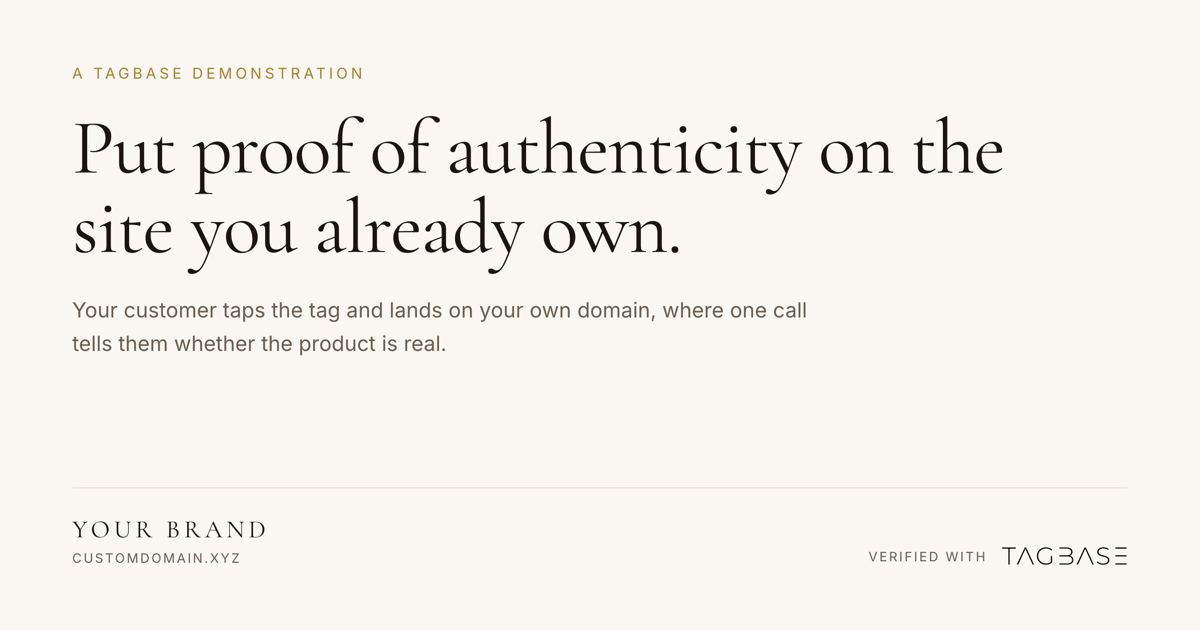
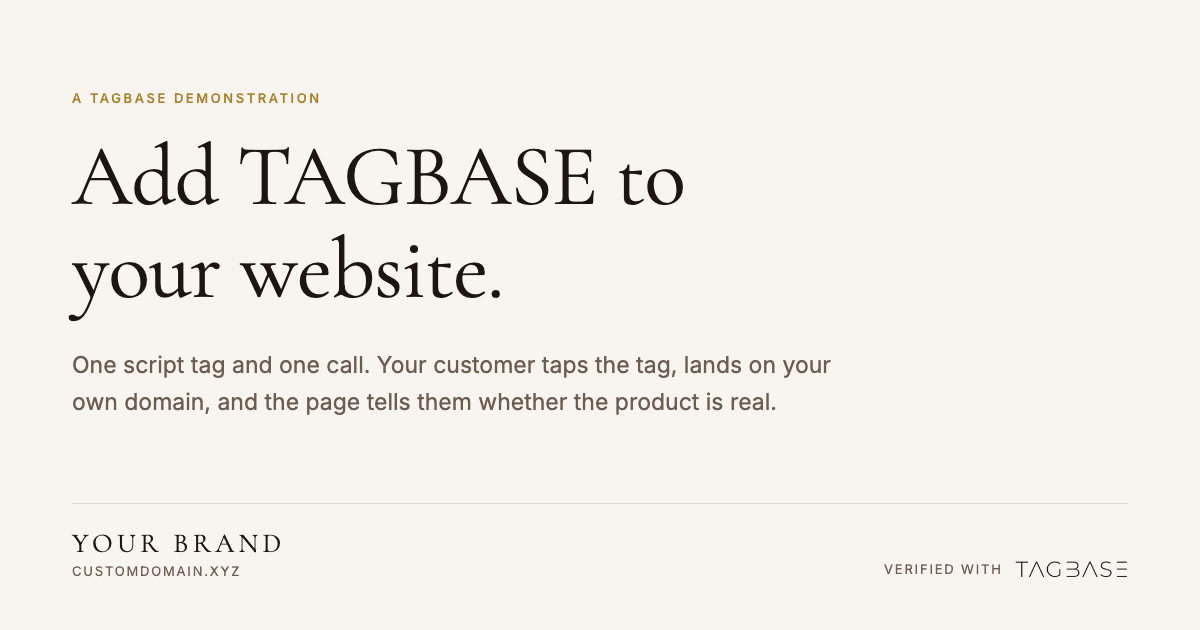
Update the link preview image
Claude-Session: https://claude.ai/code/session_011dzoKvKxMPzgK163jDQhCY

Changed region(s): [[0.0617, 0.0905, 0.8325, 0.6635], [0.0617, 0.8143, 0.2467, 0.9349], [0.7092, 0.8746, 0.9558, 0.9048]]

diff --git a/index.html b/index.html
@@ -18,17 +18,20 @@
     />
     <meta name="author" content="TAGBASE" />
 
-    <meta property="og:title" content="Product verification on your own domain" />
+    <meta property="og:title" content="Add TAGBASE to your website" />
     <meta
       property="og:description"
       content="A demo of TAGBASE verification running on a brand's own domain. Tap a tag and this page tells you what the product is and whether it is real."
     />
     <meta property="og:type" content="website" />
-    <meta property="og:image" content="/og-image.png" />
+    <meta property="og:url" content="https://customdomain.xyz/" />
+    <meta property="og:image" content="https://customdomain.xyz/og-image.png" />
+    <meta property="og:image:width" content="1200" />
+    <meta property="og:image:height" content="630" />
 
     <meta name="twitter:card" content="summary_large_image" />
     <meta name="twitter:site" content="@tagbase" />
-    <meta name="twitter:image" content="/og-image.png" />
+    <meta name="twitter:image" content="https://customdomain.xyz/og-image.png" />
   </head>
 
   <body>
